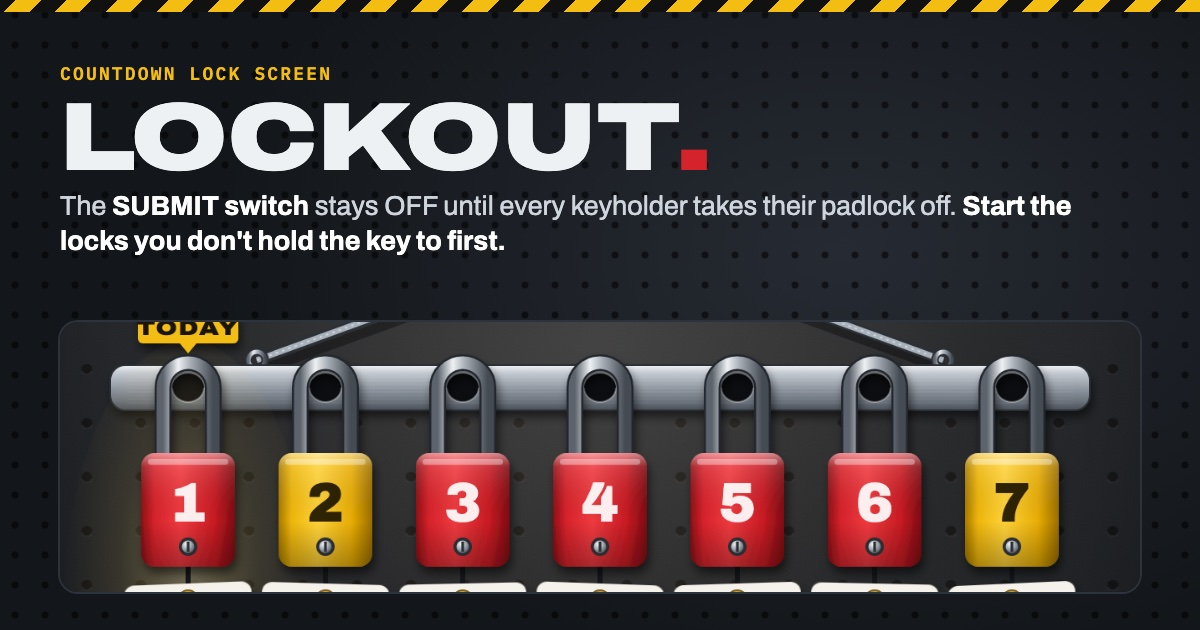
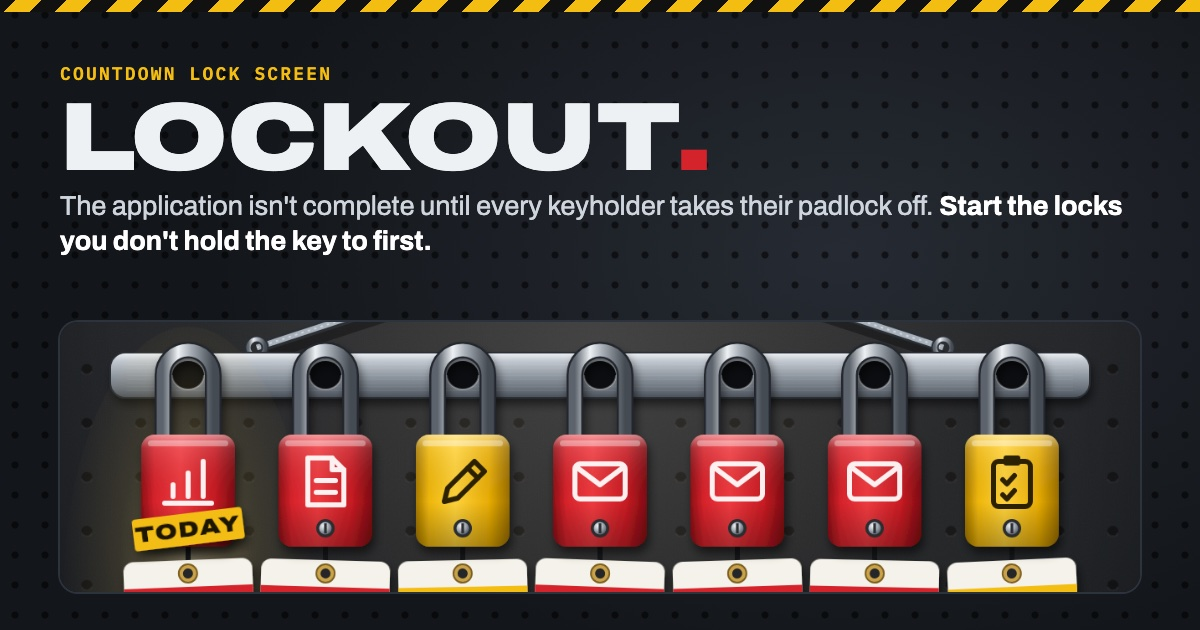
Application-complete switch, early/late stamps, uniform names, rail labels, new share image

Changed region(s): [[0.0925, 0.5127, 0.925, 0.9651], [0.0308, 0.3016, 0.9558, 0.4222]]

diff --git a/lockout.js b/lockout.js
@@ -44,6 +44,7 @@
 
   const verbOf = plan => (plan.verb || "SUBMIT").toUpperCase();
   const doneOf = plan => (plan.done || "SUBMITTED").toUpperCase();
+  const ruleOf = (plan, n) => plan.rule ? plan.rule.replace("{n}", n) : n === 1 ? `DO NOT ${verbOf(plan)} UNTIL THE LOCK IS OFF` : `DO NOT ${verbOf(plan)} UNTIL ALL ${n} LOCKS ARE OFF`;
   const cap = w => w.charAt(0).toUpperCase() + w.slice(1).toLowerCase();
   const title = w => w.toLowerCase().replace(/(^|[\s.\-])([a-z])/g, (m, a, b) => a + b.toUpperCase());
   const VERBS = { ASKED: "Ask", NUDGED: "Nudge", "NUDGED 2×": "Nudge again", "NUDGED ×2": "Nudge again", BOOKED: "Book", REQUESTED: "Request", ORDERED: "Order",
@@ -57,7 +58,7 @@
     if (!back && plan.assumeOnTime) { back = due; assumed = true; }
     const done = (L.steps || []).filter(s => s[0] < date);
     const next = (L.steps || []).find(s => s[0] >= date);
-    const off = !!back && date > back;
+    const off = !!back && (L.theirs ? date >= back : date > back);
     const dueToday = !off && date === due;
     const overdue = !off && date > due;
     return { ...L, due, back, assumed, off, dueToday, overdue, last: done[done.length - 1], next };
@@ -174,11 +175,11 @@ ${T(CX, y0 + 39, t, { size, weight: 800, stretch: "expanded", anchor: "middle", 
     const lbl = verbOf(plan) + (plan.scope ? " · " + plan.scope : "");
     s += T(CX, y0 + PH - 54, lbl, { size: fit(lbl, PW - 210, 26, 16, 900, "expanded"), weight: 900, stretch: "expanded", anchor: "middle", fill: ink, ls: 2 });
     // pilot lamp: red = locked out, green = on
-    const lx = x0 + 86, ly = y0 + 96;
+    const lx = x0 + 78, ly = y0 + 92;
     s += `<circle cx="${lx}" cy="${ly}" r="33" fill="#1c1d1f"/><circle cx="${lx}" cy="${ly}" r="33" fill="none" stroke="url(#steelH)" stroke-width="6"/>`;
     s += `<circle cx="${lx}" cy="${ly}" r="44" fill="${on ? GREEN : "#ff3b30"}" opacity="${on ? .85 : .55}" filter="url(#glow)"/>`;
     s += `<circle cx="${lx}" cy="${ly}" r="25" fill="url(#${on ? "lampOn" : "lampRed"})"/><ellipse cx="${lx - 7}" cy="${ly - 9}" rx="9" ry="5" fill="#fff" opacity=".55"/>`;
-    s += T(lx, ly + 62, on ? "LIVE" : "LOCKED", { size: 20, weight: 900, stretch: "expanded", anchor: "middle", fill: ink, ls: 1.5 });
+    s += T(lx, ly + 60, on ? "LIVE" : "LOCKED", { size: 18, weight: 900, stretch: "expanded", anchor: "middle", fill: ink, ls: 1.5 });
     // collar + handle
     s += `<circle cx="${CX}" cy="${CY}" r="118" fill="#141619"/><circle cx="${CX}" cy="${CY}" r="118" fill="none" stroke="#000" stroke-opacity=".5" stroke-width="4"/><circle cx="${CX}" cy="${CY}" r="110" fill="none" stroke="#fff" stroke-opacity=".07" stroke-width="3"/>`;
     s += `<g transform="rotate(${ang} ${CX} ${CY})" filter="url(#ds2)">`;
@@ -275,9 +276,22 @@ ${T(x, y0 + 122, "TODAY", { size: 26, weight: 900, stretch: "expanded", anchor: 
 ${T(0, size * .36, text, { size, weight: 800, stretch: "condensed", anchor: "middle", fill: color, ls: .5 })}</g>`;
   }
 
+  function stamp2(cx, cy, lines, color, rot) {
+    if (lines.length === 1) return stampSvg(cx, cy, lines[0], color, rot);
+    const size = Math.min(...lines.map(l => fit(l, TAG_W - 34, 28, 20, 800, "condensed")));
+    const w = Math.min(TAG_W - 10, Math.max(...lines.map(l => tw(l, size, 800, "condensed"))) + 24);
+    return `<g transform="translate(${cx},${cy}) rotate(${rot})" filter="url(#stamp)" opacity=".93">
+<rect x="${-w / 2}" y="-31" width="${w}" height="62" rx="6" fill="none" stroke="${color}" stroke-width="4"/>
+${T(0, -4, lines[0], { size, weight: 800, stretch: "condensed", anchor: "middle", fill: color, ls: .5 })}${T(0, size - 2, lines[1], { size, weight: 800, stretch: "condensed", anchor: "middle", fill: color, ls: .5 })}</g>`;
+  }
   const tagHeader = (x, y0, text, bg, fg) => `<rect x="${x - TAG_W / 2}" y="${y0 + 32}" width="${TAG_W}" height="44" fill="${bg}"/>` +
     T(x, y0 + 65, text, { size: fit(text, TAG_W - 12, 30, 22, 900, "condensed"), weight: 900, stretch: "condensed", anchor: "middle", fill: fg, ls: 1 });
-  const tagNameT = (x, y0, L, fill, op = 1) => T(x, y0 + 128, L.holder, { size: fit(L.holder, TAG_W - 14, 50, 30, 900, "extra-condensed"), weight: 900, stretch: "extra-condensed", anchor: "middle", fill, opacity: op });
+  const NAME_SIZE = 44;
+  const tagNameT = (x, y0, L, fill, op = 1) => {
+    const max = TAG_W - 12, w = tw(L.holder, NAME_SIZE, 900, "extra-condensed");
+    return T(x, y0 + 128, L.holder, { size: NAME_SIZE, weight: 900, stretch: "extra-condensed", anchor: "middle", fill, opacity: op,
+      extra: w > max ? ` textLength="${max}" lengthAdjust="spacingAndGlyphs"` : "" });
+  };
   const bigDate = (x, y, text, color) => T(x, y, text, { size: fit(text, TAG_W - 16, 44, 30, 900, "condensed"), weight: 900, stretch: "condensed", anchor: "middle", fill: color });
 
   function tag(x, L, st, date, i, plan) {
@@ -294,7 +308,7 @@ ${T(0, size * .36, text, { size, weight: 800, stretch: "condensed", anchor: "mid
     else if (L.next) s += T(x, sy + 10, "FROM " + md(L.next[0]), { size: 26, weight: 800, stretch: "condensed", anchor: "middle", fill: "#6f6f6f" });
     s += `<line x1="${x0 + 12}" x2="${x0 + TAG_W - 12}" y1="${y0 + 202}" y2="${y0 + 202}" stroke="#d8d3c6" stroke-width="2"/>`;
     if (L.overdue) s += bigDate(x, y0 + 240, "OVERDUE", INK_RED);
-    else if (L.dueToday) s += bigDate(x, y0 + 240, "TODAY", AMBER);
+    else if (L.dueToday) s += bigDate(x, y0 + 240, "DUE TODAY", AMBER);
     else s += bigDate(x, y0 + 240, md(L.due), "#141414");
     s += `</g>`;
     return s;
@@ -310,8 +324,10 @@ ${T(0, size * .36, text, { size, weight: 800, stretch: "condensed", anchor: "mid
     s += `<rect x="${x - TAG_W / 2}" y="${TAG_Y}" width="${TAG_W}" height="${TAG_H}" rx="12" fill="#fff" fill-opacity=".04" stroke="#fff" stroke-opacity=".2" stroke-width="3" stroke-dasharray="10 8"/>`;
     s += tagHeader(x, TAG_Y, L.assumed ? "PLANNED" : yours ? "DONE" : "KEY BACK", "rgba(53,196,111,.18)", GREEN);
     s += tagNameT(x, TAG_Y, L, "#eef1f4", .9);
-    if (!L.assumed) s += stampSvg(x, TAG_Y + 170, (yours ? "DONE " : "BACK ") + md(L.back), GREEN, [-6, 5, -4, 6, -5, 4, -6][i % 7]);
-    s += bigDate(x, TAG_Y + 240, md(L.due), GREEN);
+    const dd = diff(L.back, L.due);
+    const tl = L.assumed ? ["ON PLAN"] : dd > 0 ? [`${dd} DAY${dd === 1 ? "" : "S"}`, "EARLY"] : dd < 0 ? [`${-dd} DAY${dd === -1 ? "" : "S"}`, "LATE"] : ["ON TIME"];
+    s += stamp2(x, TAG_Y + 170, tl, dd < 0 ? AMBER : GREEN, [-6, 5, -4, 6, -5, 4, -6][i % 7]);
+    s += bigDate(x, TAG_Y + 240, md(L.back), GREEN);
     s += `</g>`;
     return s;
   }
@@ -332,7 +348,7 @@ ${T(0, size * .36, text, { size, weight: 800, stretch: "condensed", anchor: "mid
   function clearedBanner(n) {
     const y = 1556;
     return `<g opacity=".95">${T(645, y, "LOCKOUT CLEARED", { size: 74, weight: 900, stretch: "expanded", anchor: "middle", fill: GREEN, ls: 3 })}
-${T(645, y + 52, `ALL ${n} KEYS BACK · SWITCH ON`, { size: 28, weight: 800, stretch: "expanded", anchor: "middle", fill: "#cfe9d9", ls: 3 })}</g>`;
+${T(645, y + 52, `ALL ${n} LOCKS OFF · SWITCH ON`, { size: 28, weight: 800, stretch: "expanded", anchor: "middle", fill: "#cfe9d9", ls: 3 })}</g>`;
   }
 
   // ---- board ----
@@ -354,17 +370,17 @@ ${T(645, y + 52, `ALL ${n} KEYS BACK · SWITCH ON`, { size: 28, weight: 800, str
     const tx = X(date), day = Math.max(1, Math.min(N + 1, diff(plan.start, date) + 1));
     let s = `<line x1="${x1}" x2="${x2}" y1="${y}" y2="${y}" stroke="#3a4049" stroke-width="8" stroke-linecap="round"/>`;
     s += `<line x1="${x1}" x2="${tx}" y1="${y}" y2="${y}" stroke="${st.submitted ? GREEN : YEL}" stroke-width="8" stroke-linecap="round"/>`;
-    st.locks.forEach(L => { s += `<circle cx="${X(L.due)}" cy="${y}" r="9" fill="${L.off ? GREEN : L.theirs ? RED : YEL}" stroke="#0f1114" stroke-width="3"/>`; });
+    const seen = {};
+    st.locks.forEach(L => { const k = seen[L.due] = (seen[L.due] || 0) + 1; const yy = y - 16 * (k - 1);
+      s += `<circle cx="${X(L.due)}" cy="${yy}" r="9" fill="${L.off ? GREEN : L.theirs ? RED : YEL}" stroke="#0f1114" stroke-width="3"/>`; });
     const sx = X(plan.submit);
     s += `<path d="M${sx} ${y - 22} V${y + 14}" stroke="${GREEN}" stroke-width="4"/><path d="M${sx} ${y - 22} h22 l-6 7 l6 7 h-22 Z" fill="${GREEN}"/>`;
     s += `<rect x="${x2 - 4}" y="${y - 16}" width="8" height="32" rx="3" fill="${RED}"/>`;
-    s += `<circle cx="${tx}" cy="${y}" r="15" fill="#fff" stroke="#0f1114" stroke-width="4"/>`;
-    const lab = `DAY ${day} OF ${N + 1}`, lw = tw(lab, 26, 600, "normal", "IBM Plex Mono");
-    const lx = Math.max(x1 + lw / 2, Math.min(x2 - lw / 2, tx));
-    s += T(lx, y + 46, lab, { family: "IBM Plex Mono", size: 26, weight: 600, stretch: "normal", anchor: "middle", fill: "#e9edf1" });
-    const L1 = md(plan.start), L2 = "DEADLINE " + md(plan.deadline);
-    if (lx - lw / 2 > x1 + tw(L1, 24, 600, "normal", "IBM Plex Mono") + 24) s += T(x1, y + 46, L1, { family: "IBM Plex Mono", size: 24, weight: 600, stretch: "normal", fill: "#8b949e" });
-    if (lx + lw / 2 < x2 - tw(L2, 24, 600, "normal", "IBM Plex Mono") - 24) s += T(x2, y + 46, L2, { family: "IBM Plex Mono", size: 24, weight: 600, stretch: "normal", anchor: "end", fill: "#e2858a" });
+    s += `<circle cx="${tx}" cy="${y}" r="17" fill="none" stroke="#0f1114" stroke-width="9"/><circle cx="${tx}" cy="${y}" r="17" fill="none" stroke="#fff" stroke-width="5"/>`;
+    s += T(x1, y + 48, md(plan.start), { family: "IBM Plex Mono", size: 25, weight: 600, stretch: "normal", fill: "#8b949e" });
+    const dl = "DEADLINE " + md(plan.deadline), dlw = tw(dl, 25, 600, "normal", "IBM Plex Mono");
+    s += T(x2, y + 48, dl, { family: "IBM Plex Mono", size: 25, weight: 600, stretch: "normal", anchor: "end", fill: "#ff8f95" });
+    s += T(x2 - dlw - 22, y + 48, (plan.submitLabel || verbOf(plan)) + " " + md(plan.submit) + " ·", { family: "IBM Plex Mono", size: 25, weight: 600, stretch: "normal", anchor: "end", fill: "#7fdca4" });
     return s;
   }
 
@@ -378,16 +394,16 @@ ${T(645, y + 52, `ALL ${n} KEYS BACK · SWITCH ON`, { size: 28, weight: 800, str
     if (on) {
       s += `<path d="M${x0 + 40} ${y0 + 38} l14 15 l28 -30" fill="none" stroke="#fff" stroke-width="8" stroke-linecap="round" stroke-linejoin="round"/>`;
       const early = diff(plan.submit, plan.deadline);
-      const head = `${doneOf(plan)} ${wmd(plan.submit)}${early > 0 ? ` · ${early} DAY${early === 1 ? "" : "S"} EARLY` : ""}`;
+      const head = st.deadlineDay ? `${doneOf(plan)} SINCE ${md(plan.submit)} · DUE TONIGHT` : `${doneOf(plan)} ${wmd(plan.submit)}${early > 0 ? ` · ${early} DAY${early === 1 ? "" : "S"} EARLY` : ""}`;
       s += T(x0 + 100, y0 + 52, head, { size: fit(head, w - 140, 34, 22, 900, "expanded"), weight: 900, stretch: "expanded", fill: "#fff", ls: 1.5 });
     } else {
       s += `<ellipse cx="${x0 + 136}" cy="${y0 + 38}" rx="118" ry="27" fill="${RED}"/>`;
       s += T(x0 + 136, y0 + 50, "DANGER", { size: 33, weight: 900, stretch: "expanded", anchor: "middle", fill: "#fff", ls: 2 });
       let msg;
       if (st.blocked) msg = `${V} BLOCKED: ${left.length} LOCK${left.length === 1 ? "" : "S"} STILL ON`;
-      else if (left.length && theirsLeft === 0 && st.submitDay) msg = `LAST LOCK IS YOURS: PAY, THEN ${V}`;
+      else if (left.length && theirsLeft === 0 && st.submitDay) msg = plan.lastLock || `LAST LOCK IS YOURS: FINISH, THEN ${V}`;
       else if (left.length && theirsLeft === 0) msg = `ALL THEIR KEYS ARE BACK · FINISH YOURS`;
-      else msg = st.locks.length === 1 ? `DO NOT ${V} UNTIL THE LOCK IS OFF` : `DO NOT ${V} UNTIL ALL ${st.locks.length} LOCKS ARE OFF`;
+      else msg = ruleOf(plan, st.locks.length);
       s += T(x0 + 274, y0 + 50, msg, { size: fit(msg, w - 300, 32, 20, 800, "condensed"), weight: 800, stretch: "condensed", fill: "#fff", ls: 1 });
     }
     const by = y0 + 92;
@@ -401,7 +417,8 @@ ${T(645, y + 52, `ALL ${n} KEYS BACK · SWITCH ON`, { size: 28, weight: 800, str
     s += T(x0 + 34 + fd.w / 2, by + 204, caption, { size: fit(caption, fd.w + 16, 27, 18, 800, "condensed"), weight: 800, stretch: "condensed", anchor: "middle", fill: YEL, ls: 1.5 });
     const tx = x0 + 34 + fd.w + 40;
     s += `<line x1="${tx - 20}" x2="${tx - 20}" y1="${by}" y2="${by + 210}" stroke="#fff" stroke-opacity=".14" stroke-width="2"/>`;
-    s += T(tx, by + 26, "TODAY · " + wmd(date), { family: "IBM Plex Mono", size: 29, weight: 600, stretch: "normal", fill: YEL, ls: 1 });
+    const dayN = Math.max(1, diff(plan.start, date) + 1), dayT = diff(plan.start, plan.deadline) + 1;
+    s += T(tx, by + 26, `TODAY · ${wmd(date)} · DAY ${dayN}/${dayT}`, { family: "IBM Plex Mono", size: fit(`TODAY · ${wmd(date)} · DAY ${dayN}/${dayT}`, x0 + w - 30 - tx, 29, 20, 600, "normal", "IBM Plex Mono"), weight: 600, stretch: "normal", fill: YEL, ls: 1 });
     const maxW = x0 + w - 30 - tx;
     let size = 62, lines = wrap(st.task, maxW, size, 800, "condensed");
     while ((lines.length > 2 || lines.some(l => tw(l, size, 800, "condensed") > maxW)) && size > 36) { size -= 2; lines = wrap(st.task, maxW, size, 800, "condensed"); }

diff --git a/index.html b/index.html
@@ -138,7 +138,7 @@
   <section>
     <h2>How it works</h2>
     <div class="how">
-      <div class="card"><h3><span class="n">1</span> One switch</h3><p>The deadline is a switch held at OFF. It can only flip to ON when every padlock is off the lockout bar: the real rule from OSHA's lockout/tagout standard (29 CFR 1910.147).</p></div>
+      <div class="card"><h3><span class="n">1</span> One switch</h3><p>Your application is a switch held at OFF. It only flips to ON (complete) when every padlock is off the lockout bar: the real rule from OSHA's lockout/tagout standard (29 CFR 1910.147), where each worker removes only their own lock.</p></div>
       <div class="card"><h3><span class="n">2</span> One lock per keyholder</h3><p>Every milestone is a padlock with a tag. <b style="color:#ff6a6a">Red: their key</b> (recommenders, the registrar, ETS). <b style="color:var(--y)">Yellow: your key</b>. You can't take someone else's lock off, so their locks start first and get nudge days.</p></div>
       <div class="card"><h3><span class="n">3</span> A new frame every day</h3><p>Rubber stamps track each lock (ordered, invited, nudged ×2), today's lock gets a TODAY tape, a lock reads DUE TODAY on its date and OVERDUE after it, and comes off only when you enter the day its key came back. The switch turns ON after you submit.</p></div>
     </div>
@@ -156,7 +156,7 @@
     <form id="mine" onsubmit="return false">
       <div class="grid">
         <label>Deadline name<input name="goal" maxlength="40"></label>
-        <label>The switch says<select name="verb"><option>SUBMIT</option><option>APPLY</option><option>LAUNCH</option><option>SHIP</option><option>FILE</option><option>START</option></select></label>
+        <label>The switch says<select name="verb"><option>COMPLETE</option><option>SUBMIT</option><option>APPLY</option><option>LAUNCH</option><option>SHIP</option><option>FILE</option><option>START</option></select></label>
         <label>First day<input name="start" type="date" required></label>
         <label>Your own date to flip it<input name="submit" type="date" required></label>
         <label>Real deadline<input name="deadline" type="date" required></label>
@@ -294,7 +294,7 @@
     $("lockrows").insertAdjacentHTML("beforeend", lockRow({ holder: "", what: "", theirs: true, steps: [], due: f.submit.value || plan.submit, back: "" }, n));
     wireRows();
   };
-  const PAST = { SUBMIT: "SUBMITTED", APPLY: "APPLIED", LAUNCH: "LAUNCHED", SHIP: "SHIPPED", FILE: "FILED", START: "STARTED" };
+  const PAST = { COMPLETE: "COMPLETE", SUBMIT: "SUBMITTED", APPLY: "APPLIED", LAUNCH: "LAUNCHED", SHIP: "SHIPPED", FILE: "FILED", START: "STARTED" };
   function readForm() {
     const f = $("mine");
     if (!f.reportValidity()) return null;

diff --git a/plan.js b/plan.js
@@ -5,7 +5,11 @@
 const DEFAULT_PLAN = {
   goal: "Grad school applications",
   scope: "6 PROGRAMS",
-  icons: true,
+  verb: "COMPLETE",                  // the switch: the application is complete when every lock is off
+  done: "COMPLETE",
+  rule: "APPLICATION NOT COMPLETE UNTIL ALL {n} LOCKS ARE OFF",
+  lastLock: "LAST LOCK IS YOURS: PAY AND SUBMIT",
+  submitLabel: "SUBMIT",
   start: "2026-11-19",
   submit: "2026-12-13",          // internal submit: the switch flips ON
   deadline: "2026-12-15",        // the real deadline (11:59 pm)
@@ -21,7 +25,7 @@ const DEFAULT_PLAN = {
       steps: [["2026-10-15", "AGREED"], ["2026-11-21", "SENT"], ["2026-11-22", "INVITED"], ["2026-11-29", "CHECKED"], ["2026-11-30", "NUDGED"]] },
     { id: "oka", holder: "OKAFOR", what: "LETTER ×6", theirs: true, due: "2026-12-11", back: "2026-12-09",
       steps: [["2026-10-15", "AGREED"], ["2026-11-21", "SENT"], ["2026-11-22", "INVITED"], ["2026-11-29", "CHECKED"], ["2026-12-01", "NUDGED"], ["2026-12-07", "NUDGED 2×"]] },
-    { id: "pat", holder: "PATEL", what: "LETTER ×6", theirs: true, due: "2026-12-11", back: "2026-12-11",
+    { id: "pat", holder: "PATEL", what: "LETTER ×6", theirs: true, due: "2026-12-11", back: "2026-12-12",
       steps: [["2026-10-15", "AGREED"], ["2026-11-21", "SENT"], ["2026-11-22", "INVITED"], ["2026-11-29", "CHECKED"], ["2026-12-02", "NUDGED"], ["2026-12-08", "NUDGED 2×"]] },
     { id: "cv", holder: "FORMS", what: "CV · FEES", icon: "forms", theirs: false, due: "2026-12-13", back: "2026-12-13",
       steps: [["2026-11-23", "CV DONE"], ["2026-12-05", "FORMS 3/6"], ["2026-12-06", "FORMS 6/6"]] },

diff --git a/README.md b/README.md
@@ -5,9 +5,10 @@ Live: https://arshdwani.github.io/lockout-countdown/
 
 In a factory, a machine can't be switched on until every worker has taken their own padlock off the switch, and
 nobody may remove someone else's lock (OSHA lockout/tagout, 29 CFR 1910.147). A grad school application works the
-same way: 5 of its 7 locks belong to someone else (three recommenders, the registrar, ETS).
+same way: it isn't complete until every piece is in, and 5 of its 7 locks belong to someone else (three recommenders,
+the registrar, ETS).
 
-The lock screen is that switch. Each milestone is a padlock with a tag: red for **their key**, yellow for **your
+The lock screen is that switch (COMPLETE · 6 PROGRAMS). Each milestone is a padlock with a tag and an icon for what it guards: red for **their key**, yellow for **your
 key**. Rubber stamps track each lock day by day (agreed, packet sent, invited, nudged ×2), today's lock gets a TODAY
 tape, a flip counter counts down to your own submit date, and the switch flips to ON the morning after you submit.
 A lock reads DUE TODAY on its due date and OVERDUE after it; it only comes off on the day you enter for its key
